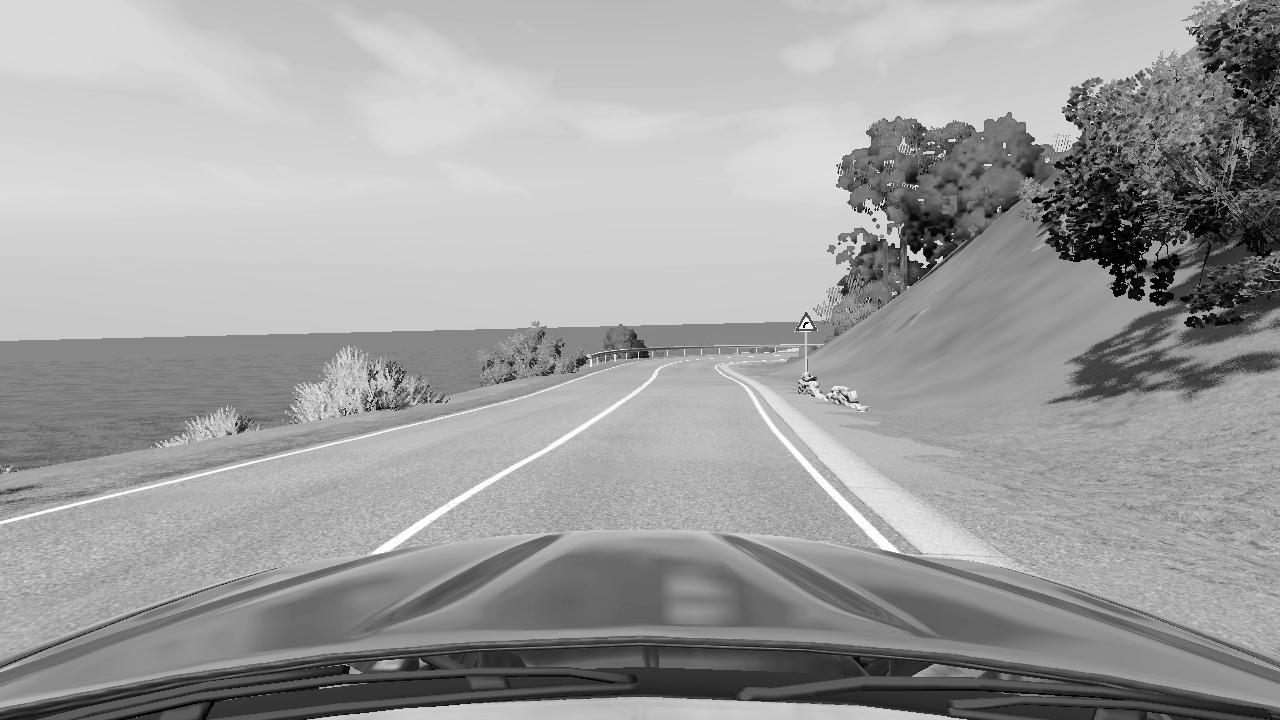
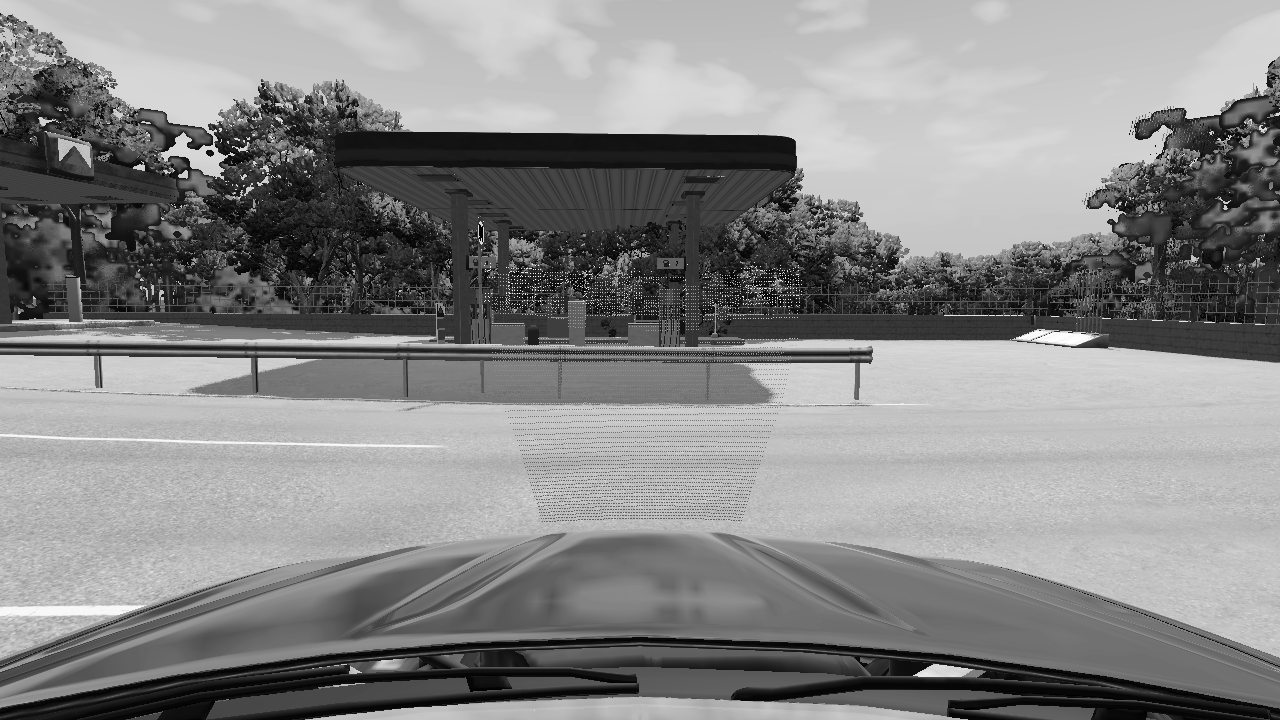
6 Oct first try of BeamNG.tech v0.30.5

diff --git a/BeamADAS_Host/host.py b/BeamADAS_Host/host.py
@@ -21,7 +21,7 @@ def init():
     scenario = Scenario('smallgrid', 'test')
 
     # Create vehicles
-    vehicle = Vehicle('ego_vehicle', model='etk800', license='ADAS', color=(0.3, 0.8, 0.3, 1))
+    vehicle = Vehicle('ego_vehicle', model='etk800', license='ADAS', color=(0.1, 0.4, 0.1, 1))
     # box = Vehicle('box', model='metal_box')
 
     # Add vehicles to scenario
@@ -35,7 +35,6 @@ def init():
 
     # Start BeamNG
     bng.settings.set_deterministic(30)
-    bng.settings.set_steps_per_second(30)
     bng.scenario.start()
 
     # Init sensors
@@ -51,6 +50,7 @@ def init():
             is_render_colours=True, 
             is_render_annotations=False, 
             is_render_depth=False,
+            is_streaming=True,
             is_using_shared_memory=True)
     lidar = Lidar('lidar', 
                 bng, 
@@ -65,7 +65,8 @@ def init():
                 frequency=30, 
                 horizontal_angle=30,
                 max_distance=150,
-                is_visualised=False)
+                is_visualised=False,
+                is_streaming=True)
     uss_f = Ultrasonic('uss_f', 
                     bng, 
                     vehicle, 
@@ -77,7 +78,8 @@ def init():
                     range_min_cutoff=0.1, 
                     range_direct_max_cutoff=8.0,
                     sensitivity=0.005, 
-                    is_visualised=False)
+                    is_visualised=False,
+                    is_streaming=True)
     uss_fl = Ultrasonic('uss_fl', 
                     bng, 
                     vehicle, 
@@ -89,7 +91,8 @@ def init():
                     range_min_cutoff=0.1, 
                     range_direct_max_cutoff=3.0,
                     sensitivity=0.005, 
-                    is_visualised=False)
+                    is_visualised=False,
+                    is_streaming=True)
     uss_fr = Ultrasonic('uss_fr', 
                     bng, 
                     vehicle, 
@@ -101,7 +104,8 @@ def init():
                     range_min_cutoff=0.1, 
                     range_direct_max_cutoff=3.0,
                     sensitivity=0.005, 
-                    is_visualised=False)
+                    is_visualised=False,
+                    is_streaming=True)
     uss_r = Ultrasonic('uss_r', 
                     bng, 
                     vehicle, 
@@ -113,7 +117,8 @@ def init():
                     range_min_cutoff=0.1, 
                     range_direct_max_cutoff=3.0,
                     sensitivity=0.005, 
-                    is_visualised=False)
+                    is_visualised=False,
+                    is_streaming=True)
     uss_rl = Ultrasonic('uss_rl', 
                     bng, 
                     vehicle, 
@@ -125,7 +130,8 @@ def init():
                     range_min_cutoff=0.1, 
                     range_direct_max_cutoff=3.0,
                     sensitivity=0.005, 
-                    is_visualised=False)
+                    is_visualised=False,
+                    is_streaming=True)
     uss_rr = Ultrasonic('uss_rr', 
                     bng, 
                     vehicle, 
@@ -137,7 +143,8 @@ def init():
                     range_min_cutoff=0.1, 
                     range_direct_max_cutoff=3.0,
                     sensitivity=0.005, 
-                    is_visualised=False)
+                    is_visualised=False,
+                    is_streaming=True)
     uss_left = Ultrasonic('uss_left',
                     bng,
                     vehicle,
@@ -149,7 +156,8 @@ def init():
                     range_min_cutoff=0.1, 
                     range_direct_max_cutoff=3.0,
                     sensitivity=0.01, 
-                    is_visualised=False)
+                    is_visualised=False,
+                    is_streaming=True)
     uss_right = Ultrasonic('uss_right',
                     bng,
                     vehicle,
@@ -161,7 +169,8 @@ def init():
                     range_min_cutoff=0.1, 
                     range_direct_max_cutoff=3.0,
                     sensitivity=0.01, 
-                    is_visualised=False)
+                    is_visualised=False,
+                    is_streaming=True)
 
     electrics = Electrics()
     vehicle.attach_sensor('electrics', electrics)

diff --git a/BeamADAS_Host/testing.py b/BeamADAS_Host/testing.py
@@ -20,14 +20,14 @@ bng = BeamNGpy('localhost', 4771, home=home.readline())
 
 bng.open()
 
-scenario = Scenario('italy', 'test')
-# scenario = Scenario('smallgrid', 'test')
+# scenario = Scenario('italy', 'test')
+scenario = Scenario('smallgrid', 'test')
 
 vehicle = Vehicle('ego_vehicle', model='etk800', license='ADAS', color=(0.1, 0.5, 0.1, 1))
 # box = Vehicle('box', model='metal_box')
 
-scenario.add_vehicle(vehicle, pos=(1205, -824, 146), rot_quat=(-0.278, -0.025, -0.953, 0.302))
-# scenario.add_vehicle(vehicle, pos=(0, 0, 0.206))
+# scenario.add_vehicle(vehicle, pos=(1205, -824, 146), rot_quat=(-0.278, -0.025, -0.953, 0.302))
+scenario.add_vehicle(vehicle, pos=(0, 0, 0.206))
 # scenario.add_vehicle(box, pos=(0, -5, 0))
 scenario.make(bng)
 
@@ -35,6 +35,18 @@ bng.scenario.load(scenario)
 bng.settings.set_deterministic(30)
 bng.scenario.start()
 
+camera = Camera('camera', 
+                bng, 
+                vehicle, 
+                requested_update_time=0.06,
+                update_priority=1,
+                pos=(0, -0.35, 1.3), 
+                resolution=(1280, 720), 
+                field_of_view_y=60, 
+                near_far_planes=(0.05, 200), 
+                is_render_colours=True, 
+                is_render_annotations=False, 
+                is_render_depth=False)
 lidar = Lidar('lidar', 
               bng, 
               vehicle, 
@@ -132,23 +144,10 @@ vehicle.attach_sensor('timer', timer)
 timer.attach(vehicle, 'timer')
 timer.connect(bng, vehicle)
 
-camera = Camera('camera', 
-                bng, 
-                vehicle, 
-                requested_update_time=0.06,
-                update_priority=1,
-                pos=(0, -0.35, 1.3), 
-                resolution=(1280, 720), 
-                field_of_view_y=60, 
-                near_far_planes=(0.05, 200), 
-                is_render_colours=True, 
-                is_render_annotations=False, 
-                is_render_depth=False)
-
-input('Hit enter to start camera')
-time.sleep(5)
-for i in range(0, 30, 1):
-    plt.imsave('img' + str(i) + '.png', np.asarray(camera.poll()['colour'].convert('L')), cmap='gray')
+# input('Hit enter to start camera')
+# time.sleep(5)
+# for i in range(0, 30, 1):
+#     plt.imsave('img' + str(i) + '.png', np.asarray(camera.poll()['colour'].convert('L')), cmap='gray')
 
 # vehicle.ai_set_speed(22, 'limit')
 # vehicle.ai_drive_in_lane(True)
@@ -171,7 +170,7 @@ for i in range(0, 30, 1):
 
 # plt.imsave('img.png', np.asarray(camera.poll()['colour'].convert('L')), cmap='gray')
 
-# input('Hit enter to exit')
+input('Hit enter to exit')
 
 # vehicle.sensors.poll('state')
 # data = lidar.poll()['pointCloud']

diff --git a/BeamADAS_Host/main.py b/BeamADAS_Host/main.py
@@ -3,9 +3,12 @@
 import host
 
 import time
-# import matplotlib.pyplot as plt
-# import numpy as np
+import matplotlib.pyplot as plt
+import numpy as np
 # from decimal import Decimal, ROUND_HALF_UP
+from PIL import Image
+width = 1280
+height = 720
 
 # Initialize simulation
 home, bng, scenario, vehicle, camera, lidar, uss_f, uss_fl, uss_fr, uss_r, uss_rl, uss_rr, uss_left, uss_right, electrics, timer = host.init()
@@ -17,7 +20,7 @@ speed = electrics.data['wheelspeed']
 while(electrics.data['running']):
     if speed >= 8.333: # Speed for LiDAR
         # vehicle.sensors.poll('state')
-        lidar_data_readonly = lidar.poll()['pointCloud']
+        lidar_data_readonly = lidar.stream()
         # lidar_data = lidar_data_readonly.copy()
         # pos = vehicle.state['pos']
         # i = 0
@@ -28,15 +31,28 @@ while(electrics.data['running']):
         #     lidar_data[i] = round(lidar_data[i] - pos[i % 3], 3)
         if speed >= 11.111: # Speed for camera
             # timestamp = timer.data['time']
-            camera_data = camera.poll()['colour'].convert('L')
+            camera_data = camera.poll_shmem_colour()
     # elif speed <= 3.333 and host.is_elapsed(timer, vehicle, timestamp): # Parking speed
     #     park_data = [round(uss_f.poll()['distance'], 3), round(uss_fl.poll()['distance'], 3), round(uss_fr.poll()['distance'], 3), 
     #                 round(uss_r.poll()['distance'], 3), round(uss_rl.poll()['distance'], 3), round(uss_rr.poll()['distance'], 3)]
     #     timestamp = timer.data['time']
 
     # Blind spot detection
-    # blind_data = [round(uss_left.poll()['distance']), round(uss_right.poll()['distance'])]
-
+    # Timing benchmarks
+    print(time.time())
+    blind_data = [uss_left.stream(), uss_right.stream()]
+    print(time.time())
+    lidar.stream()
+    print(time.time())
+    camera_data = camera.stream_colour(3686400)
+    print(time.time())
+    camera_data = np.array(camera_data).reshape(height, width, 4)
+    camera_data = (0.299 * camera_data[:, :, 0] + 0.587 * camera_data[:, :, 1] + 0.114 * camera_data[:, :, 2]).astype(np.uint8)
+    # Image.fromarray(camera_data, 'L').save("sh_mem.png", "PNG") # Replace with send over serial port
+    print(time.time())
+    break
+    # print('1: ' + str(time.time()))
+    # vehicle.sensors.poll('timer')
     vehicle.sensors.poll('timer')
     print(timer.data['time'])
 
